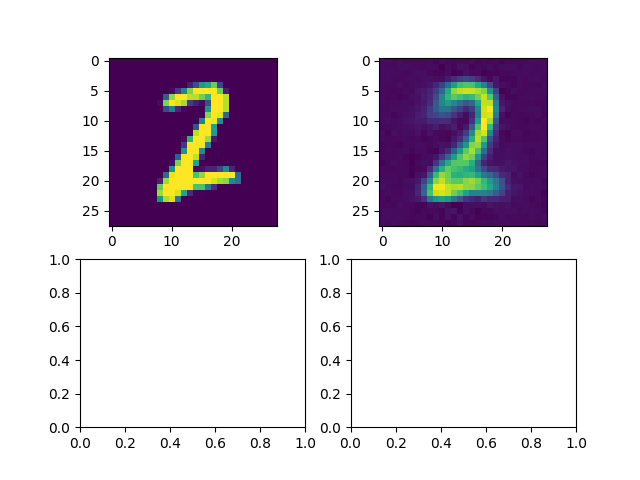
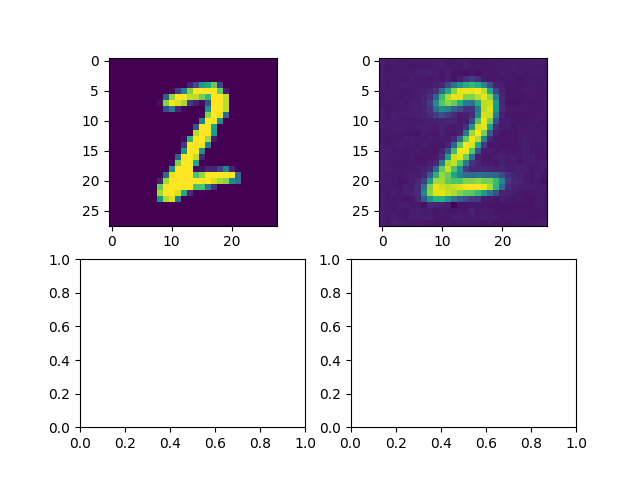
contrastive loss clustering

Changed region(s): [[0.6562, 0.1562, 0.8125, 0.4688], [0.625, 0.3125, 0.6562, 0.375]]

diff --git a/main.py b/main.py
@@ -13,6 +13,10 @@ from pathlib import Path
 from dataset_loading import get_dataset, Dataset, DATASET_NAMES
 import random
 from typing import Dict, List, Optional, Tuple
+from sklearn.cluster import KMeans
+from scipy.optimize import linear_sum_assignment
+import numpy as np
+
 
 train_dataset_names = ['fashion_mnist', 'kmnist']
 test_dataset_name = "mnist"
@@ -22,18 +26,19 @@ device = torch.device("cuda")
 batch_size = 256
 epochs_hyper = 1000
 epochs_vae = 20
-lr_hyper = 1e-3
+lr_hyper = 1e-4
 lr_vae = 1e-4
 log_interval = 10
 save_path = "hypernet_checkpoint.pth"
-vae_head_dim = 4
+vae_head_dim = 10
 n_samples_conditioning = 200
 steps_innerloop = 1
 steps_outerloop = 10
 
 image_width_height = 28
 
-
+use_contrastive_loss = True
+contrastive_temp = 0.07
 
 cluster_using_guassians = True
 
@@ -53,7 +58,7 @@ use_bias = True
 #vae
 condition_dim = vae_head_dim * 2 * n_samples_conditioning #*2, because there are two output enconder heads in VAE
 retrain_vae = False
-vae_description = "_head_4"
+vae_description = "_head_10"
 
 class TargetNet:
 
@@ -191,45 +196,44 @@ def train_vae(vae, train_loader, test_loader):
     evaluate_vae(vae, test_loader)
     return vae
 
+def create_batches(loader, number_of_batches, vae):
+    data_x = []
+    data_y = []
+    data_mu = []
+    data_logvar = []
+    for batch_idx, (X, y) in enumerate(loader):
+        if batch_idx == number_of_batches:
+            break
+
+        mu, logvar = get_gaussian_from_vae(vae, X.to(device), 0, visualize=False)
+
+        data_mu.append(mu.unsqueeze(0)) #Add extra dimension before batch dimension, so that the batches can be looped over
+        data_logvar.append(logvar.unsqueeze(0))
+
+        data_y.append(y.unsqueeze(0))
+        if cluster_using_guassians:
+            data_x.append(torch.cat((mu, logvar), 1).unsqueeze(0))
+        else:
+            data_x.append(X.unsqueeze(0))
+
+    data_x = torch.cat(data_x, 0)
+    data_y = torch.cat(data_y, 0)
+    data_mu = torch.cat(data_mu, 0)
+    data_logvar = torch.cat(data_logvar, 0)
+    return data_x, data_y, data_mu, data_logvar
+
 # Loads the batches for one specific task into memory, ready to be used for meta learning
 def create_batches_innerloop(dataset_name , number_of_batches):
     data = get_dataset(name=dataset_name, preprocess=True, to_tensor=True, flatten=False)
     train = Dataset(data['train'])
-    dataset_loader = DataLoader(train, batch_size=batch_size, shuffle=True, num_workers=2, pin_memory=True)
-
-    data_x = torch.Tensor() 
-    data_y = torch.Tensor()
-    data_mu = torch.Tensor()
-    data_logvar = torch.Tensor()
+    loader = DataLoader(train, batch_size=batch_size, shuffle=True, num_workers=2, pin_memory=True)
     
     vae = VAE(w=image_width_height, h=image_width_height, ls_dim=vae_head_dim)
     file_name = test_dataset_name + vae_description + ".pth"
     vae.load_state_dict(torch.load(models_folder / file_name)['hyper_state_dict'])
     vae.to(device)
 
-    for batch_idx, (X, y) in enumerate(dataset_loader):
-        if batch_idx == number_of_batches:
-            break
-        
-        mu, logvar = get_gaussian_from_vae(vae, X.to(device), 0, visualize=False)
-        data_mu = mu.unsqueeze(0)
-        data_logvar = logvar.unsqueeze(0)
-        
-        if batch_idx == 0:
-            if cluster_using_guassians:
-                data_x = torch.cat((mu, logvar), 1)
-                data_x = data_x.unsqueeze(0) #Add extra dimension before batch dimension, so that the batches can be looped over
-            else:
-                data_x = X.unsqueeze(0) 
-
-            data_y = y.unsqueeze(0)
-            continue
-        
-        data_x = torch.cat((data_x, X.unsqueeze(0)), 0)
-        data_y = torch.cat((data_y, y.unsqueeze(0)), 0)
-        data_mu = torch.cat((data_mu, mu.unsqueeze(0)), 0)
-        data_logvar = torch.cat((data_logvar, logvar.unsqueeze(0)), 0)
-
+    data_x, data_y, data_mu, data_logvar = create_batches(loader, number_of_batches, vae)
     return data_x, data_y, data_mu, data_logvar
 
 # Loads the batches into memory for all tasks, ready to be used for meta learning
@@ -240,38 +244,29 @@ def create_batches_outerloop():
         train = Dataset(data['test'])
         loaders.append((name, DataLoader(train, batch_size=batch_size, shuffle=True, num_workers=2, pin_memory=True)))
         
-    data_x = []
-    data_y = []
-    data_mu = []
-    data_logvar = []
+    all_data_x = []
+    all_data_y = []
+    all_data_mu = []
+    all_data_logvar = []
 
     vae = VAE(w=image_width_height, h=image_width_height, ls_dim=vae_head_dim)
     file_name = test_dataset_name + vae_description + ".pth"
     vae.load_state_dict(torch.load(models_folder / file_name)['hyper_state_dict'])
     vae.to(device)
 
-    for (name, data_loader) in loaders:
-        for batch_idx, (X, y) in enumerate(data_loader):
-            if batch_idx == 1:
-                break
-
-            mu, logvar = get_gaussian_from_vae(vae, X.to(device), 0, visualize=False)
-
-            data_mu.append(mu.unsqueeze(0)) #Add extra dimension before batch dimension, so that the batches can be looped over
-            data_logvar.append(logvar.unsqueeze(0))
-
-            data_y.append(y.unsqueeze(0))
-            if cluster_using_guassians:
-                data_x.append(torch.cat((mu, logvar), 1).unsqueeze(0))
-            else:
-                data_x.append(X.unsqueeze(0))
+    for (name, loader) in loaders:
+        data_x, data_y, data_mu, data_logvar = create_batches(loader, 1, vae)
+        all_data_x.append(data_x)
+        all_data_y.append(data_y)
+        all_data_mu.append(data_mu)
+        all_data_logvar.append(data_logvar)
 
 
             
-    data_x = torch.cat(data_x, 0)
-    data_y = torch.cat(data_y, 0)
-    data_mu = torch.cat(data_mu, 0)
-    data_logvar = torch.cat(data_logvar, 0)
+    data_x = torch.cat(all_data_x, 0)
+    data_y = torch.cat(all_data_y, 0)
+    data_mu = torch.cat(all_data_mu, 0)
+    data_logvar = torch.cat(all_data_logvar, 0)
 
     return data_x, data_y, data_mu, data_logvar
       
@@ -294,7 +289,11 @@ def inner_loop(hyper, target, optimizer, criterion):
         params = [(W.to(device), b.to(device) if b is not None else None) for (W, b) in params]
 
         logits = target.forward(X, params)
-        loss = criterion(logits, y)
+        if use_contrastive_loss:
+            loss = contrastive_loss_new(logits, y)
+            print(f"Inner loop loss: {loss.item()}")
+        else:
+            loss = criterion(logits, y)
 
         #loss.backward(create_graph=True)
         torch.autograd.grad(loss, hyper.parameters(), create_graph=True, allow_unused=True)
@@ -319,15 +318,23 @@ def outer_loop(hyper, target, optimizer, criterion):
         params = [(W.to(device), b.to(device) if b is not None else None) for (W, b) in params]
 
         logits = target.forward(X, params)
-        losses.append(criterion(logits, y))
+
+        if use_contrastive_loss:
+            losses.append(contrastive_loss_new(logits, y))
+        else:
+            losses.append(criterion(logits, y))
+
+        #losses.append(criterion(logits, y))
 
 
     total_loss = torch.stack(losses).mean()
     total_loss.backward()
     optimizer.step()
+    print(f"Outerloop loss: {total_loss.item()}")
     return hyper
 
-def get_clusters(logits: torch.Tensor, y: torch.Tensor,
+
+def get_clusters_cross_entropy(logits: torch.Tensor, y: torch.Tensor,
                  return_all_ties: bool = True
                 ) -> Dict[int, Tuple[Optional[List[int]], int]]:
     """
@@ -379,6 +386,42 @@ def get_clusters(logits: torch.Tensor, y: torch.Tensor,
 
     return result
 
+def kmeans_accuracy(x: torch.Tensor, y: torch.Tensor, n_clusters: int = 10):
+    """
+    Perform KMeans clustering on x and compute accuracy against y.
+
+    Args:
+        x (torch.Tensor): Input features [n, 10]
+        y (torch.Tensor): True labels [n, 1]
+        n_clusters (int): Number of clusters
+
+    Returns:
+        float: clustering accuracy
+    """
+    x = F.normalize(x, p=2, dim=1)
+    x_np = x.cpu().detach().numpy()
+    y_np = y.cpu().detach().numpy().flatten()
+    
+    # Fit KMeans
+    kmeans = KMeans(n_clusters=n_clusters, n_init=20, random_state=42)
+    pred = kmeans.fit_predict(x_np)
+    
+    # Compute best mapping between cluster labels and true labels
+    D = np.zeros((n_clusters, n_clusters), dtype=np.int64)
+    for i in range(n_clusters):
+        for j in range(n_clusters):
+            D[i, j] = np.sum((pred == i) & (y_np == j))
+    
+    row_ind, col_ind = linear_sum_assignment(-D)
+    mapping = {row: col for row, col in zip(row_ind, col_ind)}
+    mapped_pred = np.array([mapping[p] for p in pred])
+    
+    accuracy = np.mean(mapped_pred == y_np)
+    return accuracy
+
+#def contrastive_loss(x: torch.Tensor, y: torch.Tensor):
+#    x = F.normalize(x, p=2, dim = 1)
+#    torch.matmul(x, x.T)
 
 def evaluate_clustering(hyper, target):
     vae = VAE(w=image_width_height, h=image_width_height, ls_dim=vae_head_dim)
@@ -416,9 +459,35 @@ def evaluate_clustering(hyper, target):
         all_logits = torch.concat((all_logits, logits), 0)
         all_y = torch.concat((all_y, y), 0)
     
-    print(get_clusters(all_logits, all_y))
-        
-        
+    if use_contrastive_loss:
+        print(f"ACCURACY: {kmeans_accuracy(all_logits, all_y)}")
+    else:
+        print(get_clusters_cross_entropy(all_logits, all_y))
+
+
+def contrastive_loss_new(X, y):
+    X = F.normalize(X, p=2, dim=1)
+
+    cos_sim_matrix = torch.matmul(X, X.T)
+    y = y.unsqueeze(0)
+    # torch.eye gives the identity matrix, with ~ we are saying exclude this. So it
+    # excludes the pairs where the indices are the same
+    mask_positive = (y == y.T) & (~torch.eye(X.shape[0], dtype=bool, device=device))  
+    mask_negative = ~mask_positive
+
+    cos_sim_matrix = cos_sim_matrix / contrastive_temp
+
+    loss = 0
+    for i in range(X.shape[0]):
+        pos_cos_sim = cos_sim_matrix[i][mask_positive[i]]
+        neg_cos_sim = cos_sim_matrix[i][mask_negative[i]]
+        numerator = torch.exp(pos_cos_sim).sum()
+        denominator = torch.exp(neg_cos_sim).sum() + numerator
+        loss += torch.log(numerator / denominator)
+
+    return loss / X.shape[0]
+
+
 def meta_train_hyper(hyper, target):
     optimizer = torch.optim.Adam(hyper.parameters(), lr=lr_hyper)
     criterion = nn.CrossEntropyLoss()
